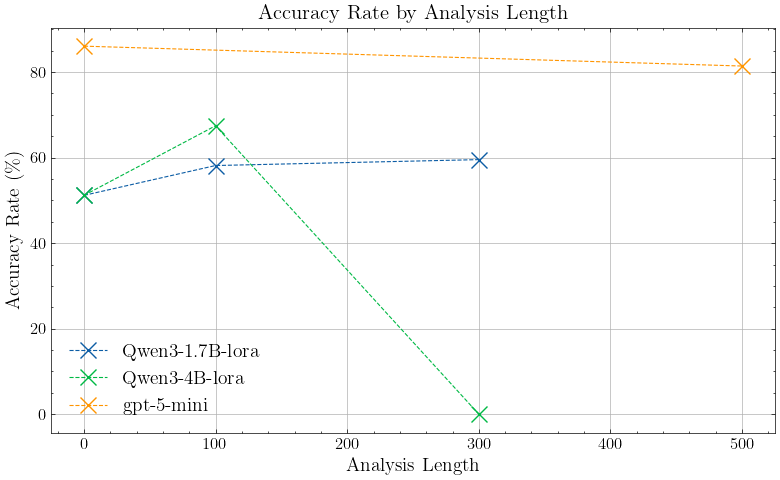
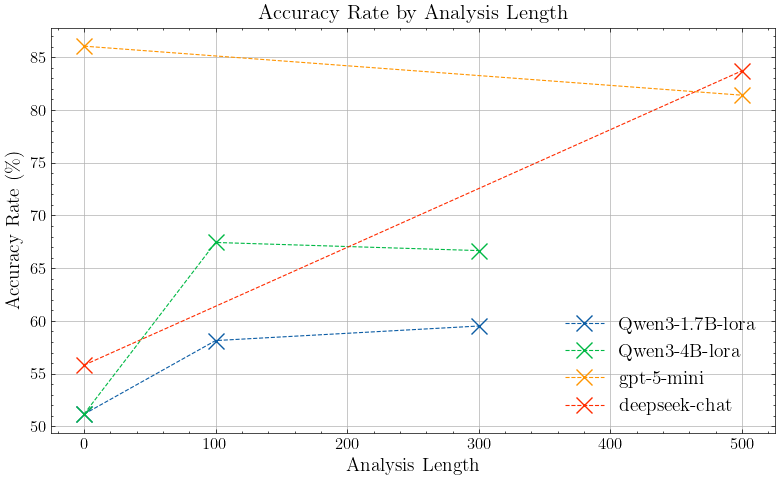
Added more benchmarks for false-positive rates

diff --git a/src/result_analyzer.py b/src/result_analyzer.py
@@ -3,6 +3,7 @@ import scienceplots, sqlite3
 import pandas as pd
 import matplotlib as mpl
 from utils import Utils
+import numpy as np
 
 mpl.rcParams['text.usetex'] = False
 plt.rc('text', usetex=False)
@@ -17,10 +18,15 @@ def get_benchmark_accuracy():
             COUNT(r.id) AS total_tasks,
             SUM(CASE WHEN r.result = t.is_vulnerable THEN 1 ELSE 0 END) AS correct_matches,
             SUM(CASE WHEN r.result != t.is_vulnerable THEN 1 ELSE 0 END) AS incorrect_matches,
+            SUM(CASE WHEN t.is_vulnerable = 0 AND r.result = 1 THEN 1 ELSE 0 END) AS false_positives,
             ROUND(
                 (SUM(CASE WHEN r.result = t.is_vulnerable THEN 1 ELSE 0 END) * 100.0) / 
                 COUNT(r.id), 2
-            ) AS accuracy_rate
+            ) AS accuracy_rate,
+            ROUND(
+                (SUM(CASE WHEN t.is_vulnerable = 0 AND r.result = 1 THEN 1 ELSE 0 END) * 100.0) / 
+                COUNT(r.id), 2
+            ) AS false_positive_rate
         FROM benchmarks b
         LEFT JOIN benchmark_results r 
             ON b.id = r.benchmark_id
@@ -38,7 +44,8 @@ def get_benchmark_accuracy():
             "total_tasks": row[2],
             "correct_matches": row[3],
             "incorrect_matches": row[4],
-            "accuracy_rate": row[5]
+            "accuracy_rate": row[6],
+            "false_positive_rate": row[7]
         }
         for row in stats
     ]
@@ -69,8 +76,7 @@ def plot_chart(categories, values, yaxis, title, filename):
     plt.rcParams.update({'font.size': 14})
     plt.style.use('science')
     plt.figure(figsize=(10, 6))
-    colors = ['#1f77b4', '#ff7f0e', '#2ca02c', '#d62728', '#9467bd'] 
-    plt.bar(categories, values, color=colors)
+    plt.bar(categories, values, color=Utils.colors)
     plt.xlabel('Model')
     plt.ylabel(yaxis)
     plt.title(title)
@@ -101,18 +107,103 @@ def plot_lines(lines, xaxis, yaxis, title, filename):
 
 def plot_benchmark_accuracy(stats):
     lines = []
-    models = ["Qwen3-1.7B-lora", "Qwen3-4B-lora", "gpt-5-mini"]
+    lines_fp = []
+    models = ["Qwen3-1.7B-lora", "Qwen3-4B-lora", "gpt-5-mini", "deepseek-chat"]
     for model in models:
         x = []
         y = []
+        y_fp = []
         for stat in stats:
-            if model in stat['label']:
+            modelname = "-".join(stat['label'].split("-")[:-1])
+            if model == modelname:  
                 length = int(stat['label'].split('-')[-1].replace('w',''))
                 x.append(length)
                 y.append(stat['accuracy_rate'])
+                y_fp.append(stat['false_positive_rate'])
         lines.append({"label": model, "x": x, "y": y})
+        lines_fp.append({"label": model, "x": x, "y": y_fp})
     plot_lines(lines, "Analysis Length", "Accuracy Rate (\%)", "Accuracy Rate by Analysis Length", "accuracy-lora-by-length")
+    plot_lines(lines_fp, "Analysis Length", "False-Positive Rate (\%)", "False-Positive Rate by Analysis Length", "false-positive-lora-by-length")
 
+
+def plot_benchmark_lora_improvment(stats):
+    groups = [
+        ("Qwen3-1.7B-0", "Qwen3-1.7B-lora-0"),
+        ("Qwen3-1.7B-500", "Qwen3-1.7B-lora-300"),
+        ("Qwen3-4B-0", "Qwen3-4B-lora-0"),
+        ("Qwen3-4B-500", "Qwen3-4B-lora-300"),
+    ]
+    bars = []
+    for baseline_label, lora_label in groups:
+        base_acc = next((s['accuracy_rate'] for s in stats if s['label'] == baseline_label), 0)
+        lora_acc = next((s['accuracy_rate'] for s in stats if s['label'] == lora_label), 0)
+
+        bars.append({
+            "group": baseline_label, 
+            "baseline": base_acc,
+            "lora": lora_acc
+        })
+    bars_fp = []
+    for baseline_label, lora_label in groups:
+        base_acc = next((s['false_positive_rate'] for s in stats if s['label'] == baseline_label), 0)
+        lora_acc = next((s['false_positive_rate'] for s in stats if s['label'] == lora_label), 0)
+
+        bars_fp.append({
+            "group": baseline_label, 
+            "baseline": base_acc,
+            "lora": lora_acc
+        })
+    x = np.arange(len(bars))
+    x_fp = np.arange(len(bars_fp))
+    # Accuracy Rate Plot
+    width = 0.35
+    mpl.rcParams['text.usetex'] = False
+    plt.rc('text', usetex=False)
+    mpl.style.use("science")
+    fig, ax = plt.subplots(figsize=(10,6))
+    ax.grid(True, zorder=0, linewidth=0.4) 
+    ax.set_axisbelow(True)
+    plt.rcParams.update({'font.size': 14})
+    plt.style.use('science')
+    baseline_vals = [b["baseline"] for b in bars]
+    lora_vals = [b["lora"] for b in bars] 
+    ax.bar(x - width/2, baseline_vals, width, label="Base", color=Utils.colors[0], zorder=2)
+    ax.bar(x + width/2, lora_vals, width, label="LoRA", color=Utils.colors[1], zorder=2)
+    ax.set_xticks(x)
+    ax.set_xticklabels([b["group"] for b in bars], rotation=45, ha="right")
+    ax.set_ylabel("Accuracy Rate (\%)", fontsize=14)
+    ax.set_title("LoRA Accuracy Comparison")
+    ax.legend()
+    plt.tight_layout()
+    plt.savefig('imgs/lora-accuracy-improvment-benchmark.png')
+    # False Positive Rate Plot
+    mpl.rcParams['text.usetex'] = False
+    plt.rc('text', usetex=False)
+    mpl.style.use("science")
+    fig, ax = plt.subplots(figsize=(10,6))
+    ax.grid(True, zorder=0, linewidth=0.4) 
+    ax.set_axisbelow(True)
+    plt.rcParams.update({'font.size': 14})
+    plt.style.use('science')
+    baseline_vals = [b["baseline"] for b in bars_fp]
+    lora_vals = [b["lora"] for b in bars_fp]
+    ax.bar(x - width/2, baseline_vals, width, label="Base", color=Utils.colors[0], zorder=2)
+    ax.bar(x + width/2, lora_vals, width, label="LoRA", color=Utils.colors[1], zorder=2)
+    ax.set_xticks(x_fp)
+    ax.set_xticklabels([b["group"] for b in bars_fp], rotation=45, ha="right")
+    ax.set_ylabel("False-Positive Rate (\%)", fontsize=14)
+    ax.set_title("LoRA False-Positive Comparison")
+    ax.legend()
+    plt.tight_layout()
+    plt.savefig('imgs/lora-false-positive-improvment-benchmark.png')
+
+def print_benchmark_stats(stats):
+    print(f"{'Benchmark':<25} {'Total Tasks':<15} {'Correct':<10} {'Incorrect':<12} {'Accuracy (%)':<15} {'False-Positive (%)':<15}")
+    print("-" * 80)
+    for stat in stats:
+        print(f"{stat['label']:<25} {stat['total_tasks']:<15} {stat['correct_matches']:<10} {stat['incorrect_matches']:<12} {stat['accuracy_rate']:<15} {stat['false_positive_rate']:<15}")
 
 stats = get_benchmark_accuracy()
+print_benchmark_stats(stats)
 plot_benchmark_accuracy(stats)
+#plot_benchmark_lora_improvment(stats)

diff --git a/src/benchmark.py b/src/benchmark.py
@@ -105,7 +105,7 @@ def run_benchmark(benchmark_id: int, label_ids: list[int]):
             else:
                 FP += 1
             continue
-        print(f"expected: {is_vuln}; got: {assesment}")
+        logger.info(f"expected: {is_vuln}; got: {assesment}")
         store_result(benchmark_id, task["id"], assesment)
 
 # Start benchmark

diff --git a/src/utils.py b/src/utils.py
@@ -3,6 +3,8 @@ from transformers import AutoTokenizer
 import pandas as pd
 
 class Utils:
+    colors = ['#1f77b4', '#ff7f0e', '#2ca02c', '#d62728', '#9467bd'] 
+    
     @staticmethod
     def get_vulnerabilities():
         return [

diff --git a/README.md b/README.md
@@ -139,10 +139,20 @@ Comparison of loss function between different base models:
 ![FineTuning-Training-Loss-Comparison](imgs/fine-tuning-training-loss-comparison.png)
 
 Comparison of accuracy after LoRA fine-tuning:
-![FineTuning-Accuracy-Comparison]()
+![FineTuning-Accuracy-Comparison](imgs/lora-accuracy-improvment-benchmark.png)
+
+Comparison of false-positive rate after LoRA fine-tuning:
+![FineTuning-False-Positive-Comparison](imgs/lora-false-positive-improvment-benchmark.png)
+
+Key observations:
+- Acurracy slightly decreases after LoRA fine-tuning, however false-positive rate drops to 0.
+- Long reasoning length can cause hallucination and impact the false-positive rate.
 
 Comparison of accuracy based on analysis length:
 ![FineTuning-Accuracy-Reasoning-Length](imgs/accuracy-lora-by-length-benchmark.png)
+
+Comparison of false-positive rate based on analysis length:
+![FineTuning-False-Positive-Reasoning-Length](imgs/false-positive-lora-by-length-benchmark.png)
 
 ### 2. Phase: GRPO (Self-Reflection)
 
